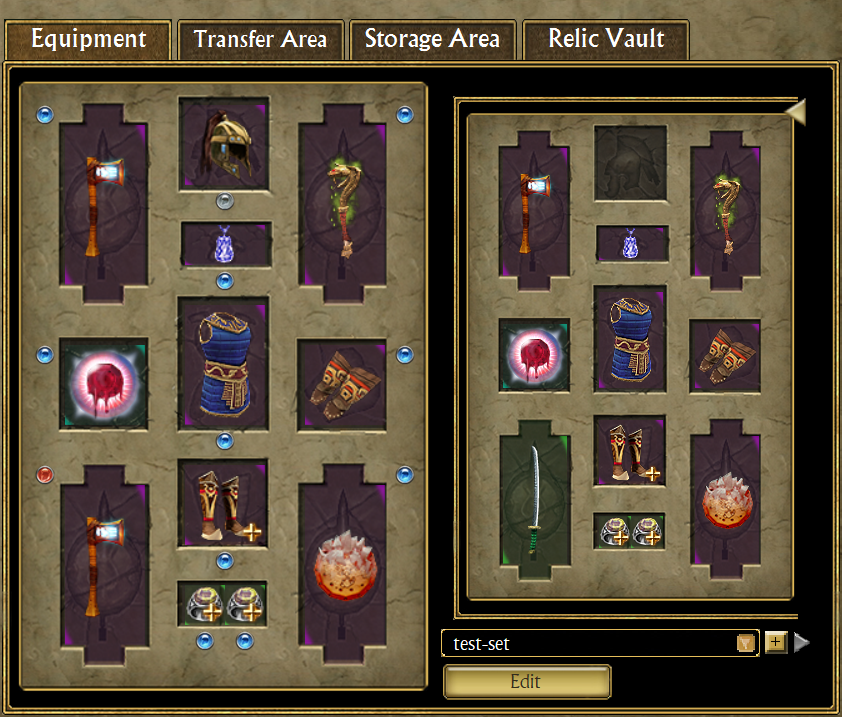
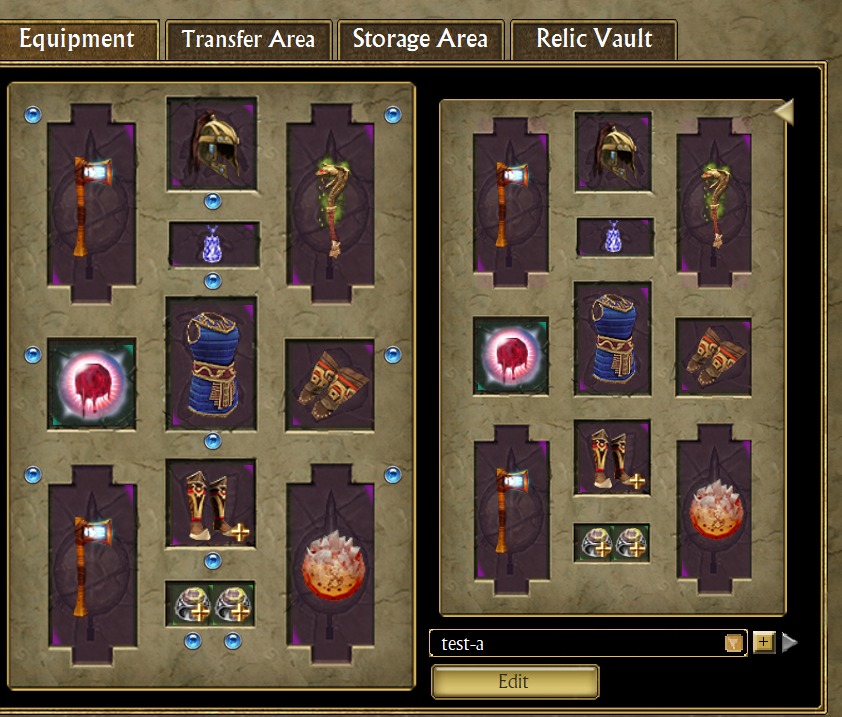
fix(loadouts): loadout panel without the caravan frame, game's back arrow
The loadout view draws only the stone of the equipment slots, its thin gold
edge included, not the double gold frame and black gap around it. The Back
arrow uses the game's buttonback pictures (same pixels as the mirrored next
arrow), so GamePicture loses its mirror option.

diff --git a/src/TQVaultAE.GUI/Components/Panels/LoadoutView.cs b/src/TQVaultAE.GUI/Components/Panels/LoadoutView.cs
@@ -85,7 +85,7 @@ public sealed class LoadoutView : Control
 		var pictureLocation = Scaled(target.Location);
 		this._pictureBounds = new Rectangle(pictureLocation, new Size(Convert.ToInt32(target.Width * factor), Convert.ToInt32(target.Height * factor)));
 
-		// The game's "next" arrow turned left, at the height of the loadout bar's Load arrow.
+		// The game's "back" arrow, at the height of the loadout bar's Load arrow.
 		float scale = this._uiService.Scale;
 		var arrow = new Size(Convert.ToInt32(BackArrow.DesignSize.Width * scale), Convert.ToInt32(BackArrow.DesignSize.Height * scale));
 		int margin = Convert.ToInt32(4 * scale);
@@ -113,12 +113,12 @@ public sealed class LoadoutView : Control
 		g.DrawImage(picture, this._pictureBounds, source.X, source.Y, source.Width, source.Height, GraphicsUnit.Pixel, attributes);
 	}
 
-	/// <summary>The Back arrow: the game's gold "next" arrow mirrored, with its hover and pressed pictures.</summary>
+	/// <summary>The Back arrow: the game's gold "back" arrow, with its hover and pressed pictures.</summary>
 	private sealed class BackArrow : Control
 	{
-		private const string Up = """InGameUI\tutorial\buttonnextup01.tex""";
-		private const string Over = """InGameUI\tutorial\buttonnextover01.tex""";
-		private const string Down = """InGameUI\tutorial\buttonnextdown01.tex""";
+		private const string Up = """InGameUI\tutorial\buttonbackup01.tex""";
+		private const string Over = """InGameUI\tutorial\buttonbackover01.tex""";
+		private const string Down = """InGameUI\tutorial\buttonbackdown01.tex""";
 
 		/// <summary>The size at scale 1: the 16 x 20 picture, a little larger than the loadout bar's Load arrow.</summary>
 		internal static readonly Size DesignSize = new(20, 25);
@@ -180,7 +180,7 @@ public sealed class LoadoutView : Control
 		{
 			base.OnPaint(e);
 			string resource = this._pressed ? Down : this._hovered ? Over : Up;
-			GamePicture.Draw(e.Graphics, this._uiService.LoadBitmap(resource.ToRecordId()), this.ClientRectangle, mirror: true);
+			GamePicture.Draw(e.Graphics, this._uiService.LoadBitmap(resource.ToRecordId()), this.ClientRectangle);
 		}
 
 		protected override void Dispose(bool disposing)

diff --git a/src/TQVaultAE.GUI/Components/Panels/StashPanel.cs b/src/TQVaultAE.GUI/Components/Panels/StashPanel.cs
@@ -103,6 +103,12 @@ public partial class StashPanel : VaultPanel, IScalingControl
 	private const int EquipmentSlotsEnd = 354;
 	private const int EquipmentRightBorder = 11;
 
+	/// <summary>
+	/// The stone of the slots in the equipment background picture, its thin gold edge included, without the caravan frame
+	/// (the double gold line and the black gap) around it: the loadout panel draws only this part.
+	/// </summary>
+	private static readonly Rectangle EquipmentSlotsStone = Rectangle.FromLTRB(14, 18, 350, 521);
+
 	/// <summary>The equipment background drawn wider, without the old box, at the size it was last asked for.</summary>
 	private Bitmap? wideEquipmentBackground;
 
@@ -608,13 +614,15 @@ public partial class StashPanel : VaultPanel, IScalingControl
 			return null;
 
 		// As WideEquipmentBackground draws it: the slot columns at the width of the whole picture, the full height.
-		float scale = rect.Width / (float)source.Width;
-		var target = new Rectangle(
-			rect.X - this.equipmentPanel.Left,
-			rect.Y - this.equipmentPanel.Top,
-			(int)Math.Round(EquipmentSlotsEnd * scale),
-			rect.Height);
-		return (source, new Rectangle(0, 0, EquipmentSlotsEnd, source.Height), target);
+		float scaleX = rect.Width / (float)source.Width;
+		float scaleY = rect.Height / (float)source.Height;
+		var stone = EquipmentSlotsStone;
+		var target = Rectangle.FromLTRB(
+			rect.X - this.equipmentPanel.Left + (int)Math.Round(stone.Left * scaleX),
+			rect.Y - this.equipmentPanel.Top + (int)Math.Round(stone.Top * scaleY),
+			rect.X - this.equipmentPanel.Left + (int)Math.Round(stone.Right * scaleX),
+			rect.Y - this.equipmentPanel.Top + (int)Math.Round(stone.Bottom * scaleY));
+		return (source, stone, target);
 	}
 
 	/// <summary>

diff --git a/src/TQVaultAE.GUI/Components/Rendering/GamePicture.cs b/src/TQVaultAE.GUI/Components/Rendering/GamePicture.cs
@@ -15,8 +15,7 @@ internal static class GamePicture
 	/// <param name="to">Where to draw it.</param>
 	/// <param name="greyed">Drawn faded, for a disabled button.</param>
 	/// <param name="flip">Upside down.</param>
-	/// <param name="mirror">Left to right, for an arrow pointing the other way.</param>
-	internal static void Draw(Graphics g, Bitmap? picture, Rectangle to, bool greyed = false, bool flip = false, bool mirror = false)
+	internal static void Draw(Graphics g, Bitmap? picture, Rectangle to, bool greyed = false, bool flip = false)
 	{
 		if (picture is null)
 		{
@@ -25,14 +24,10 @@ internal static class GamePicture
 			return;
 		}
 
-		if (flip || mirror)
+		if (flip)
 		{
 			// The upper left, upper right and lower left corners of the picture, where they land.
-			int left = mirror ? to.Right : to.Left;
-			int right = mirror ? to.Left : to.Right;
-			int top = flip ? to.Bottom : to.Top;
-			int bottom = flip ? to.Top : to.Bottom;
-			g.DrawImage(picture, [new Point(left, top), new Point(right, top), new Point(left, bottom)]);
+			g.DrawImage(picture, [new Point(to.Left, to.Bottom), new Point(to.Right, to.Bottom), new Point(to.Left, to.Top)]);
 			return;
 		}
 
